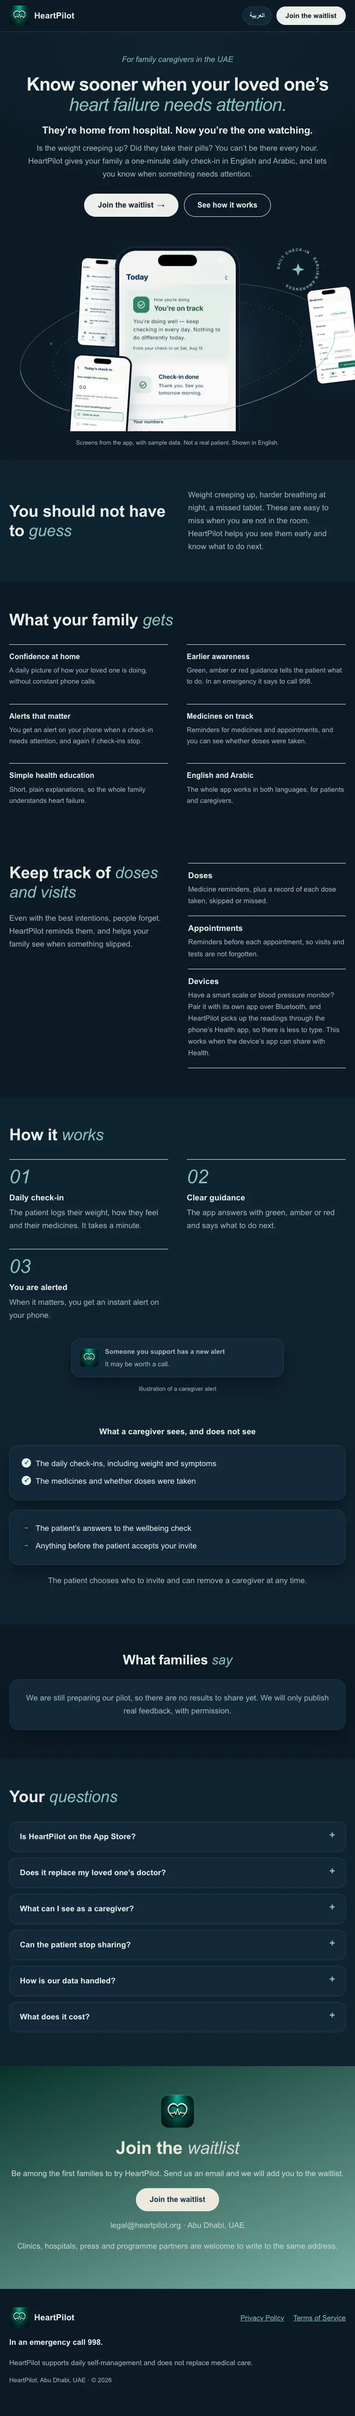
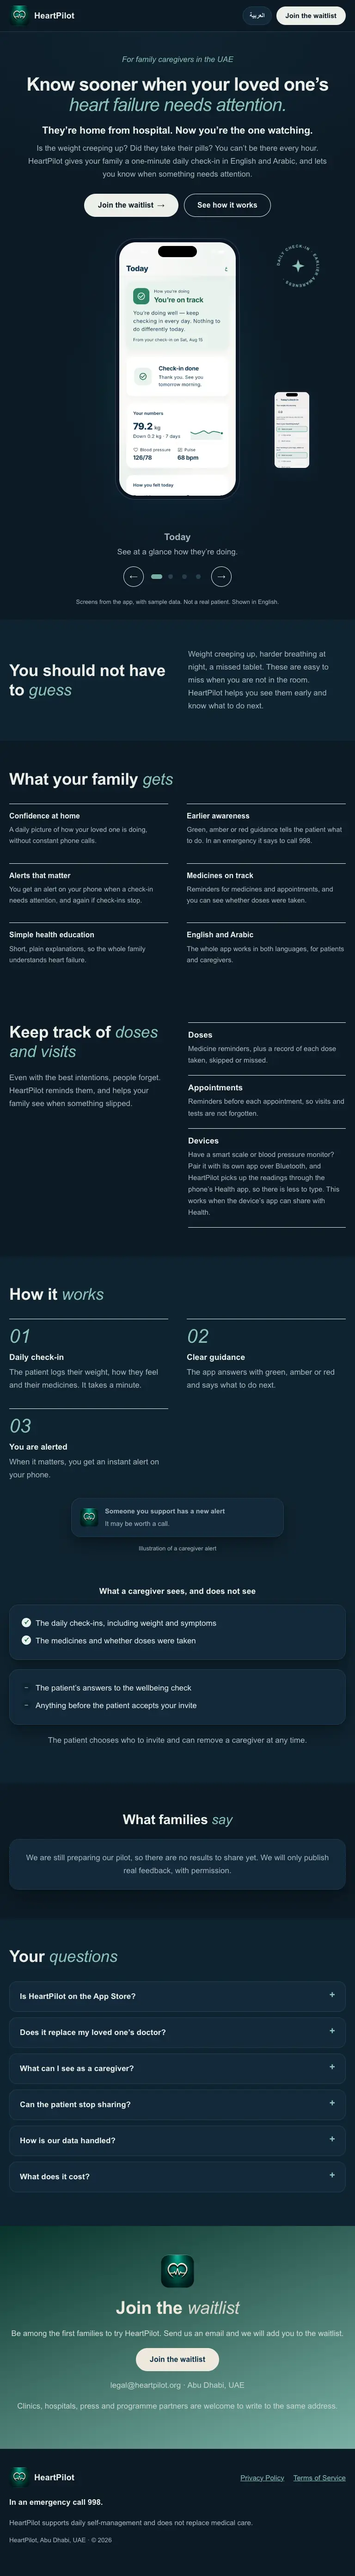
Hero: screens carousel where the next screen waits in the corner and glides to the centre; remove the orbit

diff --git a/assets/css/styles.css b/assets/css/styles.css
@@ -61,9 +61,6 @@ html[lang=ar] .hero h1{font-size:clamp(1.8rem,4.4vw,3.3rem);line-height:1.4}html
 .btn-ghost:hover{border-color:var(--ink);box-shadow:none}
 .arr{font-style:normal;margin-inline-start:8px}html[dir=rtl] .arr{display:inline-block;transform:scaleX(-1)}
 .stage{position:relative;max-width:1040px;margin:44px auto 0;height:clamp(420px,52vw,560px);clip-path:inset(0 -300px 0 -300px)}
-.stage::after{content:"";position:absolute;inset-inline:0;bottom:0;height:120px;background:linear-gradient(transparent,var(--bg));pointer-events:none}
-.orbit{position:absolute;inset:0;width:100%;height:100%;color:var(--teal);pointer-events:none}
-.orbit-back{opacity:.35;z-index:0}.orbit-front{opacity:.55;z-index:4}
 .badge{position:absolute;inset-inline-end:7%;top:18px;width:104px;height:104px;color:var(--teal-text);z-index:5}
 .badge svg{width:100%;height:100%;overflow:visible}
 .badge text{font:700 9.5px Arial,sans-serif;letter-spacing:.18em;fill:currentColor}
@@ -71,7 +68,6 @@ html[lang=ar] .badge text{letter-spacing:0;font-size:11px}
 .spin{transform-origin:60px 60px;animation:spin 28s linear infinite}
 @keyframes spin{to{transform:rotate(360deg)}}
 @media (max-width:640px){.badge{display:none}}
-.phone{z-index:2;position:absolute;inset-inline:0;margin-inline:auto;top:20px;width:min(270px,64vw);height:560px;background:#0B1623;border-radius:44px;padding:11px;box-shadow:0 30px 70px rgba(16,49,74,.3),inset 0 0 0 2px #223249;animation:rise .9s cubic-bezier(.2,.7,.2,1) both}
 .notch{position:absolute;top:18px;inset-inline:0;margin-inline:auto;width:84px;height:24px;background:#000;border-radius:14px;z-index:2}
 .screen{height:100%;border-radius:34px;background:#FAF9F7;padding:52px 14px 14px;display:flex;flex-direction:column;gap:10px;color:#10314A;overflow:hidden}
 .s-top b{font-size:1.4rem}
@@ -144,8 +140,6 @@ section{padding:clamp(52px,8vw,92px) 0}
 h2 em{font-style:italic;font-weight:400;color:var(--teal-text)}
 html[lang=ar] h2 em{font-style:normal;font-weight:700}
 .btn-ghost{background:transparent;border:1.5px solid var(--ink)}
-.stage::before{content:"";position:absolute;inset-inline:6%;top:8%;bottom:-10%;border-radius:50%;background:radial-gradient(closest-side,rgba(22,107,92,.30),rgba(239,233,220,.55) 55%,transparent 75%);filter:blur(30px);z-index:0}
-@media (prefers-color-scheme:dark){.stage::before{background:radial-gradient(closest-side,rgba(121,176,165,.28),rgba(18,41,58,.5) 55%,transparent 75%)}}
 .split{display:grid;grid-template-columns:1fr 1fr;gap:clamp(24px,6vw,80px);align-items:center}
 .split h2{font-size:clamp(2rem,4.6vw,3.2rem);margin:0}
 .split .lead{margin:0}
@@ -170,12 +164,34 @@ html[lang=ar] h2 em{font-style:normal;font-weight:700}
 .row h3{margin:0 0 6px}.row p{margin:0;color:var(--muted);font-size:.95rem}
 #reminders h2{margin-bottom:.6em}
 
-/* app screens orbiting the central phone */
-.phone.shot{padding:9px;height:auto;aspect-ratio:auto}
-.phone.shot img{display:block;width:100%;height:auto;border-radius:36px}
-.sat{position:absolute;width:var(--sw,128px);height:auto;border-radius:20px;border:4px solid #0B1623;box-shadow:0 18px 40px rgba(16,49,74,.28);background:#FAF9F7;transform:translate(-50%,-50%);animation:orbit 72s linear infinite;z-index:5}
-.s2{animation-delay:-24s}.s3{animation-delay:-48s}
-@keyframes orbit{0.00%{left:96.65%;top:48.70%;z-index:1;transform:translate(-50%,-50%) rotate(-7.0deg) scale(0.72)}4.17%{left:95.66%;top:57.76%;z-index:5;transform:translate(-50%,-50%) rotate(-6.8deg) scale(1)}8.33%{left:91.56%;top:66.91%;z-index:5;transform:translate(-50%,-50%) rotate(-6.1deg) scale(1)}12.50%{left:84.62%;top:75.51%;z-index:5;transform:translate(-50%,-50%) rotate(-4.9deg) scale(1)}16.67%{left:75.33%;top:82.98%;z-index:5;transform:translate(-50%,-50%) rotate(-3.5deg) scale(1)}20.83%{left:64.31%;top:88.81%;z-index:5;transform:translate(-50%,-50%) rotate(-1.8deg) scale(1)}25.00%{left:52.32%;top:92.60%;z-index:5;transform:translate(-50%,-50%) rotate(-0.0deg) scale(1)}29.17%{left:40.16%;top:94.10%;z-index:5;transform:translate(-50%,-50%) rotate(1.8deg) scale(1)}33.33%{left:28.68%;top:93.21%;z-index:5;transform:translate(-50%,-50%) rotate(3.5deg) scale(1)}37.50%{left:18.65%;top:89.97%;z-index:5;transform:translate(-50%,-50%) rotate(4.9deg) scale(1)}41.67%{left:10.76%;top:84.62%;z-index:5;transform:translate(-50%,-50%) rotate(6.1deg) scale(1)}45.83%{left:5.54%;top:77.52%;z-index:5;transform:translate(-50%,-50%) rotate(6.8deg) scale(1)}50.00%{left:3.35%;top:69.16%;z-index:5;transform:translate(-50%,-50%) rotate(7.0deg) scale(1)}54.17%{left:4.34%;top:60.09%;z-index:1;transform:translate(-50%,-50%) rotate(6.8deg) scale(0.72)}58.33%{left:8.44%;top:50.95%;z-index:1;transform:translate(-50%,-50%) rotate(6.1deg) scale(0.72)}62.50%{left:15.38%;top:42.35%;z-index:1;transform:translate(-50%,-50%) rotate(4.9deg) scale(0.72)}66.67%{left:24.67%;top:34.88%;z-index:1;transform:translate(-50%,-50%) rotate(3.5deg) scale(0.72)}70.83%{left:35.69%;top:29.05%;z-index:1;transform:translate(-50%,-50%) rotate(1.8deg) scale(0.72)}75.00%{left:47.68%;top:25.25%;z-index:1;transform:translate(-50%,-50%) rotate(0.0deg) scale(0.72)}79.17%{left:59.84%;top:23.75%;z-index:1;transform:translate(-50%,-50%) rotate(-1.8deg) scale(0.72)}83.33%{left:71.32%;top:24.65%;z-index:1;transform:translate(-50%,-50%) rotate(-3.5deg) scale(0.72)}87.50%{left:81.35%;top:27.88%;z-index:1;transform:translate(-50%,-50%) rotate(-4.9deg) scale(0.72)}91.67%{left:89.24%;top:33.23%;z-index:1;transform:translate(-50%,-50%) rotate(-6.1deg) scale(0.72)}95.83%{left:94.46%;top:40.33%;z-index:1;transform:translate(-50%,-50%) rotate(-6.8deg) scale(0.72)}100.00%{left:96.65%;top:48.70%;z-index:1;transform:translate(-50%,-50%) rotate(-7.0deg) scale(0.72)}}
 
-@media (max-width:640px){.sat{--sw:76px;border-width:3px;border-radius:14px}.phone.shot{width:min(230px,60vw)}}
-@media (prefers-reduced-motion:reduce){.sat{animation:none!important}}
+/* carousel: the next screen waits small at the bottom corner, then glides to the centre (after the supplied motion reference) */
+.stage{position:relative;max-width:1040px;margin:36px auto 0;height:640px;container-type:inline-size;clip-path:none;overflow:visible;--glow:rgba(22,107,92,.28);transition:--glow .9s}
+.stage::before{content:"";position:absolute;inset-inline:10%;top:6%;bottom:0;border-radius:50%;background:radial-gradient(closest-side,var(--glow),transparent 72%);filter:blur(34px);transition:background .9s;z-index:0}
+.stage[data-i="1"]{--glow:rgba(16,49,74,.22)}.stage[data-i="2"]{--glow:rgba(46,131,103,.30)}.stage[data-i="3"]{--glow:rgba(201,130,31,.22)}
+.slots{position:absolute;inset:0}
+.slot{position:absolute;left:50%;top:10px;width:min(270px,62cqw);padding:9px;border:0;background:#0B1623;border-radius:44px;box-shadow:0 30px 70px rgba(16,49,74,.3),inset 0 0 0 2px #223249;transform-origin:50% 0;transition:transform .95s cubic-bezier(.65,0,.2,1),opacity .7s ease,box-shadow .7s;font:inherit;cursor:default}
+.slot img{display:block;width:100%;height:auto;border-radius:36px;pointer-events:none}
+.slot .notch{top:17px}
+.slot.p0{transform:translate(-50%,0) scale(1);opacity:1;z-index:3}
+.slot.p1{transform:translate(calc(-50% + 34cqw),330px) scale(.3);opacity:.95;z-index:4;cursor:pointer}
+.slot.p2{transform:translate(calc(-50% + 58cqw),350px) scale(.18);opacity:0;z-index:1}
+.slot.p3{transform:translate(calc(-50% - 30cqw),40px) scale(.78);opacity:0;z-index:1}
+.slot.p1:hover{box-shadow:0 12px 30px rgba(16,49,74,.4),0 0 0 3px var(--teal)}
+.badge{position:absolute;inset-inline-end:7%;top:18px;width:104px;height:104px;color:var(--teal-text);z-index:3}
+.stage-note{top:60px}
+.carousel-ui{max-width:420px;margin:0 auto;padding-bottom:8px}
+.scaps{position:relative;min-height:74px}
+.scap{position:absolute;inset:0;opacity:0;transform:translateY(8px);transition:opacity .5s,transform .5s;pointer-events:none}
+.scap.on{opacity:1;transform:none;pointer-events:auto}
+.scap b{display:block;font-size:1.25rem;color:var(--ink);margin-bottom:2px}.scap span{color:var(--muted)}
+.ctrl{display:flex;align-items:center;justify-content:center;gap:14px;margin-top:6px}
+.arrow{width:44px;height:44px;border-radius:50%;border:1.5px solid var(--ink);background:transparent;color:var(--ink);font:700 1.1rem var(--font);cursor:pointer}
+.arrow:hover{background:var(--ink);color:var(--bg)}
+html[dir=rtl] .arrow{transform:scaleX(-1)}
+.dots{display:flex;gap:2px}
+.dot-btn{position:relative;width:28px;height:28px;border:0;background:none;cursor:pointer;padding:0}
+.dot-btn::before{content:"";position:absolute;inset:0;margin:auto;width:10px;height:10px;border-radius:50%;background:var(--line);transition:width .3s,background .3s}
+.dot-btn.on::before{width:24px;border-radius:6px;background:var(--teal)}
+@media (max-width:640px){.stage{height:545px}.slot{width:min(236px,64cqw);border-radius:38px;padding:7px}.slot img{border-radius:32px}.slot.p1{transform:translate(calc(-50% + 33cqw),270px) scale(.3)}.slot.p2{transform:translate(calc(-50% + 56cqw),290px) scale(.18)}.badge{display:none}}
+@media (prefers-reduced-motion:reduce){.slot,.scap,.stage::before{transition:none}}

diff --git a/index.html b/index.html
@@ -44,15 +44,14 @@
 <h1><span data-l="en">Know sooner when your loved one’s <em>heart failure needs attention.</em></span><span data-l="ar" lang="ar">اعرف مبكراً متى يحتاج مريض قصور القلب في عائلتك <em>إلى انتباه.</em></span></h1>
 <p class="lead lead-hero"><span data-l="en"><strong>They’re home from hospital. Now you’re the one watching.</strong> Is the weight creeping up? Did they take their pills? You can’t be there every hour. HeartPilot gives your family a one-minute daily check-in in English and Arabic, and lets you know when something needs attention.</span><span data-l="ar" lang="ar"><strong>مريضكم عاد إلى البيت، والآن أنتم من يراقب.</strong> هل يزداد الوزن؟ هل أخذ أدويته؟ لا يمكنكم أن تكونوا بجانبه كل ساعة. يقدّم لكم هارت بايلوت فحصاً يومياً من دقيقة بالعربية والإنجليزية، ويُعلمكم عندما يحتاج أمر ما إلى انتباه.</span></p>
 <div class="cta"><a class="btn btn-dark" href="#contact"><span data-l="en">Join the waitlist</span><span data-l="ar" lang="ar">انضم إلى قائمة الانتظار</span><i aria-hidden="true" class="arr">→</i></a><a class="btn btn-ghost" href="#how"><span data-l="en">See how it works</span><span data-l="ar" lang="ar">شاهد كيف يعمل</span></a></div>
-<div class="stage" role="img" aria-label="Screens from the HeartPilot app, with sample data: Today, Medicines, Today’s check-in and Learn" data-aria-en="Screens from the HeartPilot app, with sample data: Today, Medicines, Today’s check-in and Learn" data-aria-ar="شاشات من تطبيق هارت بايلوت ببيانات تجريبية: اليوم، والأدوية، والفحص اليومي، والتعلّم">
-<svg class="orbit orbit-back" viewBox="0 0 1000 560" preserveAspectRatio="none" aria-hidden="true"><g transform="rotate(-7 500 330)" fill="none" stroke="currentColor" stroke-width="1.4" vector-effect="non-scaling-stroke"><ellipse cx="500" cy="330" rx="470" ry="190" vector-effect="non-scaling-stroke"/><ellipse cx="500" cy="330" rx="372" ry="140" stroke-dasharray="3 7" vector-effect="non-scaling-stroke"/></g><g transform="rotate(-7 500 330)" fill="currentColor"><circle cx="500" cy="140" r="5"/><circle cx="130" cy="262" r="4"/><circle cx="905" cy="400" r="4"/></g></svg>
-<svg class="orbit orbit-front" viewBox="0 0 1000 560" preserveAspectRatio="none" aria-hidden="true"><g transform="rotate(-7 500 330)"><path d="M30 330A470 190 0 0 0 970 330" fill="none" stroke="currentColor" stroke-width="1.8" vector-effect="non-scaling-stroke"/><circle cx="500" cy="520" r="5" fill="currentColor"/></g></svg>
+<div class="stage" id="carousel" role="region" aria-roledescription="carousel" aria-label="Screens from the HeartPilot app, with sample data" data-aria-en="Screens from the HeartPilot app, with sample data" data-aria-ar="شاشات من تطبيق هارت بايلوت ببيانات تجريبية">
 <div class="badge" aria-hidden="true"><svg viewBox="0 0 120 120"><defs><path id="bc" d="M60 60m-46 0a46 46 0 1 1 92 0a46 46 0 1 1-92 0"/></defs><g class="spin"><text data-l="en"><textPath href="#bc">DAILY CHECK-IN · EARLIER AWARENESS · </textPath></text><circle data-l="ar" cx="60" cy="60" r="46" fill="none" stroke="currentColor" stroke-width="1.2" stroke-dasharray="2 6"/></g><path d="M60 44l4 12 12 4-12 4-4 12-4-12-12-4 12-4z" fill="currentColor"/></svg></div>
-<div class="phone shot" aria-hidden="true"><div class="notch"></div><img src="/assets/app-today.webp" width="420" height="913" alt="" fetchpriority="high"></div>
-<img class="sat s1" src="/assets/app-medicines.webp" width="260" height="565" alt="" loading="lazy" style="left:88%;top:68%">
-<img class="sat s2" src="/assets/app-checkin.webp" width="260" height="565" alt="" loading="lazy" style="left:30%;top:88%">
-<img class="sat s3" src="/assets/app-learn.webp" width="260" height="565" alt="" loading="lazy" style="left:20%;top:38%">
+<div class="slots"><button type="button" class="slot p0" data-i="0" tabindex="-1" aria-hidden="true"><span class="notch"></span><img src="/assets/app-today.webp" width="420" height="913" alt="" fetchpriority="high"></button><button type="button" class="slot p1" data-i="1" tabindex="-1" aria-hidden="true"><span class="notch"></span><img src="/assets/app-checkin.webp" width="420" height="913" alt="" loading="lazy"></button><button type="button" class="slot p2" data-i="2" tabindex="-1" aria-hidden="true"><span class="notch"></span><img src="/assets/app-medicines.webp" width="420" height="913" alt="" loading="lazy"></button><button type="button" class="slot p3" data-i="3" tabindex="-1" aria-hidden="true"><span class="notch"></span><img src="/assets/app-learn.webp" width="420" height="913" alt="" loading="lazy"></button></div>
 <p class="stage-note" aria-hidden="true"><i></i><span data-l="en">In pilot preparation. Not yet on the App Store.</span><span data-l="ar" lang="ar">قيد التحضير للتجربة. غير متوفر بعد في App Store.</span></p>
+</div>
+<div class="carousel-ui">
+<div class="scaps" aria-live="polite"><div class="scap on" data-i="0"><b><span data-l="en">Today</span><span data-l="ar" lang="ar">اليوم</span></b><span><span data-l="en">See at a glance how they’re doing.</span><span data-l="ar" lang="ar">اعرفوا بنظرة كيف حاله.</span></span></div><div class="scap" data-i="1"><b><span data-l="en">Daily check-in</span><span data-l="ar" lang="ar">الفحص اليومي</span></b><span><span data-l="en">Weight and symptoms in a minute.</span><span data-l="ar" lang="ar">الوزن والأعراض في دقيقة.</span></span></div><div class="scap" data-i="2"><b><span data-l="en">Medicines</span><span data-l="ar" lang="ar">الأدوية</span></b><span><span data-l="en">Reminders, and a record of each dose.</span><span data-l="ar" lang="ar">تذكيرات وسجل لكل جرعة.</span></span></div><div class="scap" data-i="3"><b><span data-l="en">Learn</span><span data-l="ar" lang="ar">التعلّم</span></b><span><span data-l="en">Short, plain explanations.</span><span data-l="ar" lang="ar">شروحات قصيرة وواضحة.</span></span></div></div>
+<div class="ctrl"><button type="button" class="arrow" id="prev" aria-label="Previous screen" data-aria-en="Previous screen" data-aria-ar="الشاشة السابقة">←</button><span class="dots"><button type="button" class="dot-btn on" data-i="0" aria-label="Show screen 1" data-aria-en="Show screen 1" data-aria-ar="عرض الشاشة 1"></button><button type="button" class="dot-btn" data-i="1" aria-label="Show screen 2" data-aria-en="Show screen 2" data-aria-ar="عرض الشاشة 2"></button><button type="button" class="dot-btn" data-i="2" aria-label="Show screen 3" data-aria-en="Show screen 3" data-aria-ar="عرض الشاشة 3"></button><button type="button" class="dot-btn" data-i="3" aria-label="Show screen 4" data-aria-en="Show screen 4" data-aria-ar="عرض الشاشة 4"></button></span><button type="button" class="arrow" id="next" aria-label="Next screen" data-aria-en="Next screen" data-aria-ar="الشاشة التالية">→</button></div>
 </div>
 <p class="cap"><span data-l="en">Screens from the app, with sample data. Not a real patient. Shown in English.</span><span data-l="ar" lang="ar">شاشات من التطبيق ببيانات تجريبية، وليست لمريض حقيقي. تظهر بالإنجليزية.</span></p>
 </div></section>

diff --git a/assets/js/main.js b/assets/js/main.js
@@ -26,4 +26,30 @@
   if (b) b.addEventListener("click", function () {
     var next = root.lang === "ar" ? "en" : "ar"; apply(next); save(next);
   });
+  // Screens carousel: the next screen waits small in the corner, then glides to the centre.
+  var stage = document.getElementById("carousel");
+  if (stage) {
+    var slots = stage.querySelectorAll(".slot"), caps = document.querySelectorAll(".scap"),
+        dots = document.querySelectorAll(".dot-btn"), n = slots.length, idx = 0, timer = null, userMoved = false;
+    var reduce = window.matchMedia && window.matchMedia("(prefers-reduced-motion: reduce)").matches;
+    function render() {
+      for (var i = 0; i < n; i++) {
+        slots[i].className = "slot p" + ((i - idx + n) % n);
+        caps[i].classList.toggle("on", i === idx);
+        dots[i].classList.toggle("on", i === idx);
+      }
+      stage.setAttribute("data-i", idx);
+    }
+    function go(to, byUser) { idx = (to + n) % n; if (byUser) { userMoved = true; stop(); } render(); }
+    function stop() { if (timer) { clearInterval(timer); timer = null; } }
+    function start() { if (!timer && !userMoved && !reduce) timer = setInterval(function () { go(idx + 1, false); }, 4800); }
+    document.getElementById("next").addEventListener("click", function () { go(idx + 1, true); });
+    document.getElementById("prev").addEventListener("click", function () { go(idx - 1, true); });
+    for (var d = 0; d < n; d++) (function (k) { dots[k].addEventListener("click", function () { go(k, true); }); })(d);
+    for (var q = 0; q < n; q++) (function (k) { slots[k].addEventListener("click", function () { if (slots[k].className.indexOf("p1") > -1) go(k, true); }); })(q);
+    stage.addEventListener("mouseenter", stop);
+    stage.addEventListener("mouseleave", start);
+    document.addEventListener("visibilitychange", function () { if (document.hidden) stop(); else start(); });
+    render(); start();
+  }
 })();

diff --git a/docs/arabic-review.md b/docs/arabic-review.md
@@ -15,83 +15,96 @@ One line needs a decision: *HeartPilot* is written « هارت بايلوت » i
 | 3 | Hero | Know sooner when your loved one’s heart failure needs attention. | اعرف مبكراً متى يحتاج مريض قصور القلب في عائلتك إلى انتباه. | |
 | 4 | Hero | They’re home from hospital. Now you’re the one watching. Is the weight creeping up? Did they take their pills? You can’t be there every hour. HeartPilot gives your family a one-minute daily check-in in English and Arabic, and lets you know when something needs attention. | مريضكم عاد إلى البيت، والآن أنتم من يراقب. هل يزداد الوزن؟ هل أخذ أدويته؟ لا يمكنكم أن تكونوا بجانبه كل ساعة. يقدّم لكم هارت بايلوت فحصاً يومياً من دقيقة بالعربية والإنجليزية، ويُعلمكم عندما يحتاج أمر ما إلى انتباه. | |
 | 5 | Hero | See how it works | شاهد كيف يعمل | |
-| 6 | Hero (accessibility label) | Screens from the HeartPilot app, with sample data: Today, Medicines, Today’s check-in and Learn | شاشات من تطبيق هارت بايلوت ببيانات تجريبية: اليوم، والأدوية، والفحص اليومي، والتعلّم | |
+| 6 | Hero (accessibility label) | Screens from the HeartPilot app, with sample data | شاشات من تطبيق هارت بايلوت ببيانات تجريبية | |
 | 7 | Hero | In pilot preparation. Not yet on the App Store. | قيد التحضير للتجربة. غير متوفر بعد في App Store. | |
-| 8 | Hero | Screens from the app, with sample data. Not a real patient. Shown in English. | شاشات من التطبيق ببيانات تجريبية، وليست لمريض حقيقي. تظهر بالإنجليزية. | |
-| 9 | Why it helps | You should not have to guess | لا ينبغي أن تظل تخمّن | |
-| 10 | Why it helps | Weight creeping up, harder breathing at night, a missed tablet. These are easy to miss when you are not in the room. HeartPilot helps you see them early and know what to do next. | زيادة الوزن شيئاً فشيئاً، وصعوبة التنفس في الليل، وجرعة منسية. أمور يسهل أن تفوتك حين لا تكون بجانب المريض. يساعدك هارت بايلوت على ملاحظتها مبكراً ومعرفة الخطوة التالية. | |
-| 11 | Benefits | Confidence at home | ثقة في البيت | |
-| 12 | Benefits | A daily picture of how your loved one is doing, without constant phone calls. | صورة يومية عن حال مريضك، من دون اتصالات متكررة. | |
-| 13 | Benefits | Earlier awareness | انتباه أبكر | |
-| 14 | Benefits | Green, amber or red guidance tells the patient what to do. In an emergency it says to call 998. | إرشاد بالأخضر أو البرتقالي أو الأحمر يخبر المريض بما يفعله. وفي الطوارئ يطلب الاتصال بالرقم 998. | |
-| 15 | Benefits | Alerts that matter | تنبيهات عند الحاجة | |
-| 16 | Benefits | You get an alert on your phone when a check-in needs attention, and again if check-ins stop. | يصلك تنبيه على هاتفك عندما يحتاج تسجيل إلى انتباه، وعندما تتوقف التسجيلات. | |
-| 17 | Benefits | Medicines on track | الأدوية في موعدها | |
-| 18 | Benefits | Reminders for medicines and appointments, and you can see whether doses were taken. | تذكيرات بالأدوية والمواعيد، وترى هل أُخذت الجرعات. | |
-| 19 | Benefits | Simple health education | تثقيف صحي مبسّط | |
-| 20 | Benefits | Short, plain explanations, so the whole family understands heart failure. | شروحات قصيرة وواضحة ليفهم الجميع قصور القلب. | |
-| 21 | Benefits | English and Arabic | العربية والإنجليزية | |
-| 22 | Benefits | The whole app works in both languages, for patients and caregivers. | التطبيق كله بلغتين، للمرضى ولأفراد العائلة. | |
-| 23 | Benefits | What your family gets | ماذا تحصل عائلتك | |
-| 24 | Doses, appointments and devices | Doses | الجرعات | |
-| 25 | Doses, appointments and devices | Medicine reminders, plus a record of each dose taken, skipped or missed. | تذكيرات بالأدوية، مع سجل لكل جرعة أُخذت أو تُركت أو فاتت. | |
-| 26 | Doses, appointments and devices | Appointments | المواعيد | |
-| 27 | Doses, appointments and devices | Reminders before each appointment, so visits and tests are not forgotten. | تذكيرات قبل كل موعد، حتى لا تُنسى الزيارات والفحوصات. | |
-| 28 | Doses, appointments and devices | Devices | الأجهزة | |
-| 29 | Doses, appointments and devices | Have a smart scale or blood pressure monitor? Pair it with its own app over Bluetooth, and HeartPilot picks up the readings through the phone’s Health app, so there is less to type. This works when the device’s app can share with Health. | هل لديكم ميزان ذكي أو جهاز ضغط؟ اربطوه بتطبيقه الخاص عبر البلوتوث، ويلتقط هارت بايلوت القراءات من تطبيق الصحة في الهاتف، فيقل ما يُكتب باليد. ينجح ذلك عندما يستطيع تطبيق الجهاز المشاركة مع تطبيق الصحة. | |
-| 30 | Doses, appointments and devices | Keep track of doses and visits | تابعوا الجرعات والمواعيد | |
-| 31 | Doses, appointments and devices | Even with the best intentions, people forget. HeartPilot reminds them, and helps your family see when something slipped. | حتى مع أفضل النوايا، ينسى الناس. يذكّرهم هارت بايلوت، ويساعد عائلتكم على ملاحظة ما فات. | |
-| 32 | How it works | How it works | كيف يعمل | |
-| 33 | How it works | Daily check-in | الفحص اليومي | |
-| 34 | How it works | The patient logs their weight, how they feel and their medicines. It takes a minute. | يسجّل المريض وزنه وشعوره وأدويته. يستغرق ذلك دقيقة واحدة. | |
-| 35 | How it works | Clear guidance | إرشاد واضح | |
-| 36 | How it works | The app answers with green, amber or red and says what to do next. | يجيب التطبيق بالأخضر أو البرتقالي أو الأحمر ويقول ما يجب فعله بعد ذلك. | |
-| 37 | How it works | You are alerted | يصلك تنبيه | |
-| 38 | How it works | When it matters, you get an instant alert on your phone. | عندما يستدعي الأمر ذلك، يصلك تنبيه فوري على هاتفك. | |
-| 39 | How it works (accessibility label) | An illustration of a caregiver alert notification | رسم توضيحي لتنبيه يصل إلى أحد أفراد العائلة | |
-| 40 | How it works | Someone you support has a new alert | لدى شخص تدعمه تنبيه جديد | |
-| 41 | How it works | It may be worth a call. | قد يستحق الأمر مكالمة. | |
-| 42 | How it works | Illustration of a caregiver alert | رسم توضيحي لتنبيه يصل إلى أحد أفراد العائلة | |
-| 43 | How it works | What a caregiver sees, and does not see | ما يراه أحد أفراد العائلة وما لا يراه | |
-| 44 | How it works | The daily check-ins, including weight and symptoms | التسجيلات اليومية، ومنها الوزن والأعراض | |
-| 45 | How it works | The medicines and whether doses were taken | الأدوية، وهل أُخذت الجرعات | |
-| 46 | How it works | The patient’s answers to the wellbeing check | إجابات المريض عن فحص الحالة النفسية | |
-| 47 | How it works | Anything before the patient accepts your invite | أي شيء قبل أن يوافق المريض على دعوتك | |
-| 48 | How it works | The patient chooses who to invite and can remove a caregiver at any time. | المريض هو من يختار من يدعوه، ويمكنه إزالة أي شخص في أي وقت. | |
-| 49 | Proof | What families say | ماذا تقول العائلات | |
-| 50 | Proof | We are still preparing our pilot, so there are no results to share yet. We will only publish real feedback, with permission. | ما زلنا نحضّر للتجربة، فلا توجد نتائج لنشرها بعد. وسننشر فقط آراء حقيقية وبموافقة أصحابها. | |
-| 51 | FAQ | Is HeartPilot on the App Store? | هل هارت بايلوت متوفر في App Store؟ | |
-| 52 | FAQ | Not yet. It is in pilot preparation and in TestFlight testing. Join the waitlist and we will tell you when you can try it. | ليس بعد. التطبيق قيد التحضير للتجربة ونختبره عبر TestFlight. انضم إلى قائمة الانتظار وسنخبرك عندما تتاح لك التجربة. | |
-| 53 | FAQ | Does it replace my loved one’s doctor? | هل يغني عن طبيب مريضي؟ | |
-| 54 | FAQ | No. HeartPilot supports daily self-management and does not replace medical care. In an emergency call 998. | لا. يساعد هارت بايلوت على المتابعة اليومية الذاتية، ولا يغني عن الرعاية الطبية. في حالة الطوارئ اتصل بالرقم 998. | |
-| 55 | FAQ | What can I see as a caregiver? | ماذا أرى بصفتي أحد أفراد العائلة؟ | |
-| 56 | FAQ | The daily check-ins, the medicines and whether doses were taken. You do not see the patient’s answers to the wellbeing check. | التسجيلات اليومية والأدوية وهل أُخذت الجرعات. لا ترى إجابات المريض عن فحص الحالة النفسية. | |
-| 57 | FAQ | Can the patient stop sharing? | هل يستطيع المريض إيقاف المشاركة؟ | |
-| 58 | FAQ | Yes. The patient chooses who to invite and can remove a caregiver at any time. Patients and caregivers can also delete their account inside the app. | نعم. المريض هو من يختار من يدعوه ويمكنه إزالة أي شخص في أي وقت. ويمكن للمريض ولأفراد العائلة أيضاً حذف حسابهم من داخل التطبيق. | |
-| 59 | FAQ | How is our data handled? | كيف تُعالج بياناتنا؟ | |
-| 60 | FAQ | Under our published Privacy Policy, which you can read before you join. | وفق سياسة الخصوصية المنشورة، ويمكنك قراءتها قبل الانضمام. | |
-| 61 | FAQ | What does it cost? | كم تبلغ التكلفة؟ | |
-| 62 | FAQ | Pricing has not been announced yet. | لم يُعلن عن الأسعار بعد. | |
-| 63 | FAQ | Your questions | أسئلة شائعة | |
-| 64 | Call to action and contact | Be among the first families to try HeartPilot. Send us an email and we will add you to the waitlist. | كن بين أولى العائلات التي تجرب هارت بايلوت. راسلنا وسنضيفك إلى قائمة الانتظار. | |
-| 65 | Call to action and contact | Abu Dhabi, UAE | أبوظبي، الإمارات | |
-| 66 | Call to action and contact | Clinics, hospitals, press and programme partners are welcome to write to the same address. | نرحب بالعيادات والمستشفيات والصحافة وشركاء البرامج للكتابة إلى العنوان نفسه. | |
-| 67 | Page title and description | HeartPilot: heart failure care at home for UAE families / Join the waitlist | هارت بايلوت: متابعة قصور القلب في البيت للعائلات في الإمارات / انضم إلى قائمة الانتظار | |
-| 68 | Page title and description | HeartPilot is a bilingual daily check-in app for people with heart failure. It tells patients what to do and alerts a family caregiver when it matters. In pilot preparation. | هارت بايلوت تطبيق للفحص اليومي لمرضى قصور القلب بالعربية والإنجليزية. يخبر المريض بما يفعله وينبّه أحد أفراد العائلة عند الحاجة. قيد التحضير للتجربة. | |
-| 69 | Call to action and contact | Skip to content | انتقل إلى المحتوى | |
-| 70 | Header (accessibility label) | HeartPilot home | HeartPilot، الصفحة الرئيسية | |
-| 71 | Header (accessibility label) | Page sections | أقسام الصفحة | |
-| 72 | Header | Benefits | المزايا | |
-| 73 | Header | Questions | أسئلة | |
-| 74 | Header | Contact | تواصل | |
-| 75 | Header (accessibility label) | العربية, switch language to Arabic | English، التبديل إلى الإنجليزية | |
-| 76 | Footer | Privacy Policy | سياسة الخصوصية | |
-| 77 | Footer | Terms of Service | شروط الخدمة | |
-| 78 | Footer | In an emergency call 998. | في حالة الطوارئ اتصل بالرقم 998. | |
-| 79 | Footer | HeartPilot supports daily self-management and does not replace medical care. | يساعد هارت بايلوت على المتابعة اليومية الذاتية، ولا يغني عن الرعاية الطبية. | |
-| 80 | Footer | HeartPilot, Abu Dhabi, UAE | هارت بايلوت، أبوظبي، الإمارات العربية المتحدة | |
-| 81 | 404 page | We could not find that page | لم نجد هذه الصفحة | |
-| 82 | 404 page | The link may be old or mistyped. | ربما الرابط قديم أو فيه خطأ. | |
-| 83 | 404 page | Go to the home page | العودة إلى الصفحة الرئيسية | |
-| 84 | Page title and description | Page not found / HeartPilot | الصفحة غير موجودة / هارت بايلوت | |
-| 85 | Page title and description | This page does not exist. | هذه الصفحة غير موجودة. | |
+| 8 | Hero | Today | اليوم | |
+| 9 | Hero | See at a glance how they’re doing. | اعرفوا بنظرة كيف حاله. | |
+| 10 | Hero | Daily check-in | الفحص اليومي | |
+| 11 | Hero | Weight and symptoms in a minute. | الوزن والأعراض في دقيقة. | |
+| 12 | Hero | Medicines | الأدوية | |
+| 13 | Hero | Reminders, and a record of each dose. | تذكيرات وسجل لكل جرعة. | |
+| 14 | Hero | Learn | التعلّم | |
+| 15 | Hero | Short, plain explanations. | شروحات قصيرة وواضحة. | |
+| 16 | Hero (accessibility label) | Previous screen | الشاشة السابقة | |
+| 17 | Hero (accessibility label) | Show screen 1 | عرض الشاشة 1 | |
+| 18 | Hero (accessibility label) | Show screen 2 | عرض الشاشة 2 | |
+| 19 | Hero (accessibility label) | Show screen 3 | عرض الشاشة 3 | |
+| 20 | Hero (accessibility label) | Show screen 4 | عرض الشاشة 4 | |
+| 21 | Hero (accessibility label) | Next screen | الشاشة التالية | |
+| 22 | Hero | Screens from the app, with sample data. Not a real patient. Shown in English. | شاشات من التطبيق ببيانات تجريبية، وليست لمريض حقيقي. تظهر بالإنجليزية. | |
+| 23 | Why it helps | You should not have to guess | لا ينبغي أن تظل تخمّن | |
+| 24 | Why it helps | Weight creeping up, harder breathing at night, a missed tablet. These are easy to miss when you are not in the room. HeartPilot helps you see them early and know what to do next. | زيادة الوزن شيئاً فشيئاً، وصعوبة التنفس في الليل، وجرعة منسية. أمور يسهل أن تفوتك حين لا تكون بجانب المريض. يساعدك هارت بايلوت على ملاحظتها مبكراً ومعرفة الخطوة التالية. | |
+| 25 | Benefits | Confidence at home | ثقة في البيت | |
+| 26 | Benefits | A daily picture of how your loved one is doing, without constant phone calls. | صورة يومية عن حال مريضك، من دون اتصالات متكررة. | |
+| 27 | Benefits | Earlier awareness | انتباه أبكر | |
+| 28 | Benefits | Green, amber or red guidance tells the patient what to do. In an emergency it says to call 998. | إرشاد بالأخضر أو البرتقالي أو الأحمر يخبر المريض بما يفعله. وفي الطوارئ يطلب الاتصال بالرقم 998. | |
+| 29 | Benefits | Alerts that matter | تنبيهات عند الحاجة | |
+| 30 | Benefits | You get an alert on your phone when a check-in needs attention, and again if check-ins stop. | يصلك تنبيه على هاتفك عندما يحتاج تسجيل إلى انتباه، وعندما تتوقف التسجيلات. | |
+| 31 | Benefits | Medicines on track | الأدوية في موعدها | |
+| 32 | Benefits | Reminders for medicines and appointments, and you can see whether doses were taken. | تذكيرات بالأدوية والمواعيد، وترى هل أُخذت الجرعات. | |
+| 33 | Benefits | Simple health education | تثقيف صحي مبسّط | |
+| 34 | Benefits | Short, plain explanations, so the whole family understands heart failure. | شروحات قصيرة وواضحة ليفهم الجميع قصور القلب. | |
+| 35 | Benefits | English and Arabic | العربية والإنجليزية | |
+| 36 | Benefits | The whole app works in both languages, for patients and caregivers. | التطبيق كله بلغتين، للمرضى ولأفراد العائلة. | |
+| 37 | Benefits | What your family gets | ماذا تحصل عائلتك | |
+| 38 | Doses, appointments and devices | Doses | الجرعات | |
+| 39 | Doses, appointments and devices | Medicine reminders, plus a record of each dose taken, skipped or missed. | تذكيرات بالأدوية، مع سجل لكل جرعة أُخذت أو تُركت أو فاتت. | |
+| 40 | Doses, appointments and devices | Appointments | المواعيد | |
+| 41 | Doses, appointments and devices | Reminders before each appointment, so visits and tests are not forgotten. | تذكيرات قبل كل موعد، حتى لا تُنسى الزيارات والفحوصات. | |
+| 42 | Doses, appointments and devices | Devices | الأجهزة | |
+| 43 | Doses, appointments and devices | Have a smart scale or blood pressure monitor? Pair it with its own app over Bluetooth, and HeartPilot picks up the readings through the phone’s Health app, so there is less to type. This works when the device’s app can share with Health. | هل لديكم ميزان ذكي أو جهاز ضغط؟ اربطوه بتطبيقه الخاص عبر البلوتوث، ويلتقط هارت بايلوت القراءات من تطبيق الصحة في الهاتف، فيقل ما يُكتب باليد. ينجح ذلك عندما يستطيع تطبيق الجهاز المشاركة مع تطبيق الصحة. | |
+| 44 | Doses, appointments and devices | Keep track of doses and visits | تابعوا الجرعات والمواعيد | |
+| 45 | Doses, appointments and devices | Even with the best intentions, people forget. HeartPilot reminds them, and helps your family see when something slipped. | حتى مع أفضل النوايا، ينسى الناس. يذكّرهم هارت بايلوت، ويساعد عائلتكم على ملاحظة ما فات. | |
+| 46 | How it works | How it works | كيف يعمل | |
+| 47 | How it works | The patient logs their weight, how they feel and their medicines. It takes a minute. | يسجّل المريض وزنه وشعوره وأدويته. يستغرق ذلك دقيقة واحدة. | |
+| 48 | How it works | Clear guidance | إرشاد واضح | |
+| 49 | How it works | The app answers with green, amber or red and says what to do next. | يجيب التطبيق بالأخضر أو البرتقالي أو الأحمر ويقول ما يجب فعله بعد ذلك. | |
+| 50 | How it works | You are alerted | يصلك تنبيه | |
+| 51 | How it works | When it matters, you get an instant alert on your phone. | عندما يستدعي الأمر ذلك، يصلك تنبيه فوري على هاتفك. | |
+| 52 | How it works (accessibility label) | An illustration of a caregiver alert notification | رسم توضيحي لتنبيه يصل إلى أحد أفراد العائلة | |
+| 53 | How it works | Someone you support has a new alert | لدى شخص تدعمه تنبيه جديد | |
+| 54 | How it works | It may be worth a call. | قد يستحق الأمر مكالمة. | |
+| 55 | How it works | Illustration of a caregiver alert | رسم توضيحي لتنبيه يصل إلى أحد أفراد العائلة | |
+| 56 | How it works | What a caregiver sees, and does not see | ما يراه أحد أفراد العائلة وما لا يراه | |
+| 57 | How it works | The daily check-ins, including weight and symptoms | التسجيلات اليومية، ومنها الوزن والأعراض | |
+| 58 | How it works | The medicines and whether doses were taken | الأدوية، وهل أُخذت الجرعات | |
+| 59 | How it works | The patient’s answers to the wellbeing check | إجابات المريض عن فحص الحالة النفسية | |
+| 60 | How it works | Anything before the patient accepts your invite | أي شيء قبل أن يوافق المريض على دعوتك | |
+| 61 | How it works | The patient chooses who to invite and can remove a caregiver at any time. | المريض هو من يختار من يدعوه، ويمكنه إزالة أي شخص في أي وقت. | |
+| 62 | Proof | What families say | ماذا تقول العائلات | |
+| 63 | Proof | We are still preparing our pilot, so there are no results to share yet. We will only publish real feedback, with permission. | ما زلنا نحضّر للتجربة، فلا توجد نتائج لنشرها بعد. وسننشر فقط آراء حقيقية وبموافقة أصحابها. | |
+| 64 | FAQ | Is HeartPilot on the App Store? | هل هارت بايلوت متوفر في App Store؟ | |
+| 65 | FAQ | Not yet. It is in pilot preparation and in TestFlight testing. Join the waitlist and we will tell you when you can try it. | ليس بعد. التطبيق قيد التحضير للتجربة ونختبره عبر TestFlight. انضم إلى قائمة الانتظار وسنخبرك عندما تتاح لك التجربة. | |
+| 66 | FAQ | Does it replace my loved one’s doctor? | هل يغني عن طبيب مريضي؟ | |
+| 67 | FAQ | No. HeartPilot supports daily self-management and does not replace medical care. In an emergency call 998. | لا. يساعد هارت بايلوت على المتابعة اليومية الذاتية، ولا يغني عن الرعاية الطبية. في حالة الطوارئ اتصل بالرقم 998. | |
+| 68 | FAQ | What can I see as a caregiver? | ماذا أرى بصفتي أحد أفراد العائلة؟ | |
+| 69 | FAQ | The daily check-ins, the medicines and whether doses were taken. You do not see the patient’s answers to the wellbeing check. | التسجيلات اليومية والأدوية وهل أُخذت الجرعات. لا ترى إجابات المريض عن فحص الحالة النفسية. | |
+| 70 | FAQ | Can the patient stop sharing? | هل يستطيع المريض إيقاف المشاركة؟ | |
+| 71 | FAQ | Yes. The patient chooses who to invite and can remove a caregiver at any time. Patients and caregivers can also delete their account inside the app. | نعم. المريض هو من يختار من يدعوه ويمكنه إزالة أي شخص في أي وقت. ويمكن للمريض ولأفراد العائلة أيضاً حذف حسابهم من داخل التطبيق. | |
+| 72 | FAQ | How is our data handled? | كيف تُعالج بياناتنا؟ | |
+| 73 | FAQ | Under our published Privacy Policy, which you can read before you join. | وفق سياسة الخصوصية المنشورة، ويمكنك قراءتها قبل الانضمام. | |
+| 74 | FAQ | What does it cost? | كم تبلغ التكلفة؟ | |
+| 75 | FAQ | Pricing has not been announced yet. | لم يُعلن عن الأسعار بعد. | |
+| 76 | FAQ | Your questions | أسئلة شائعة | |
+| 77 | Call to action and contact | Be among the first families to try HeartPilot. Send us an email and we will add you to the waitlist. | كن بين أولى العائلات التي تجرب هارت بايلوت. راسلنا وسنضيفك إلى قائمة الانتظار. | |
+| 78 | Call to action and contact | Abu Dhabi, UAE | أبوظبي، الإمارات | |
+| 79 | Call to action and contact | Clinics, hospitals, press and programme partners are welcome to write to the same address. | نرحب بالعيادات والمستشفيات والصحافة وشركاء البرامج للكتابة إلى العنوان نفسه. | |
+| 80 | Page title and description | HeartPilot: heart failure care at home for UAE families / Join the waitlist | هارت بايلوت: متابعة قصور القلب في البيت للعائلات في الإمارات / انضم إلى قائمة الانتظار | |
+| 81 | Page title and description | HeartPilot is a bilingual daily check-in app for people with heart failure. It tells patients what to do and alerts a family caregiver when it matters. In pilot preparation. | هارت بايلوت تطبيق للفحص اليومي لمرضى قصور القلب بالعربية والإنجليزية. يخبر المريض بما يفعله وينبّه أحد أفراد العائلة عند الحاجة. قيد التحضير للتجربة. | |
+| 82 | Call to action and contact | Skip to content | انتقل إلى المحتوى | |
+| 83 | Header (accessibility label) | HeartPilot home | HeartPilot، الصفحة الرئيسية | |
+| 84 | Header (accessibility label) | Page sections | أقسام الصفحة | |
+| 85 | Header | Benefits | المزايا | |
+| 86 | Header | Questions | أسئلة | |
+| 87 | Header | Contact | تواصل | |
+| 88 | Header (accessibility label) | العربية, switch language to Arabic | English، التبديل إلى الإنجليزية | |
+| 89 | Footer | Privacy Policy | سياسة الخصوصية | |
+| 90 | Footer | Terms of Service | شروط الخدمة | |
+| 91 | Footer | In an emergency call 998. | في حالة الطوارئ اتصل بالرقم 998. | |
+| 92 | Footer | HeartPilot supports daily self-management and does not replace medical care. | يساعد هارت بايلوت على المتابعة اليومية الذاتية، ولا يغني عن الرعاية الطبية. | |
+| 93 | Footer | HeartPilot, Abu Dhabi, UAE | هارت بايلوت، أبوظبي، الإمارات العربية المتحدة | |
+| 94 | 404 page | We could not find that page | لم نجد هذه الصفحة | |
+| 95 | 404 page | The link may be old or mistyped. | ربما الرابط قديم أو فيه خطأ. | |
+| 96 | 404 page | Go to the home page | العودة إلى الصفحة الرئيسية | |
+| 97 | Page title and description | Page not found / HeartPilot | الصفحة غير موجودة / هارت بايلوت | |
+| 98 | Page title and description | This page does not exist. | هذه الصفحة غير موجودة. | |
